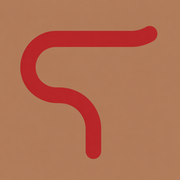
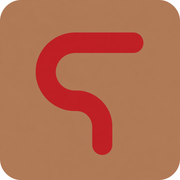
Planner: fix mobile overflow, literal \uXXXX escapes, and notes clamp
Three related bugs surfaced on iPhone.

1. Horizontal overflow at narrow viewports. <body> is display:flex
   flex-col (for footer-pin layout), which makes <main> a flex item
   with default min-width:auto (= min-content). The day-strip and
   filter-row inside main have overflow-x-auto with intrinsic widths
   well over 375px, so their min-content pushed main to 768px and
   every line of event text extended past the viewport edge. Fix:
   add w-full min-w-0 to main so it can shrink below its min-content
   width and the internal scrollers scroll internally.

2. \uXXXX unicode escapes rendering as literal text. JSX text
   children don't interpret \u escapes — only string literals and
   expression containers do. Six places in Planner.tsx were written
   as plain JSX text, so users saw "More \u25be" and " \u00b7 "
   instead of "More \u25BE" and " · ". Replaced with the real glyph.

3. Notes clamped to two lines (line-clamp-2). Combined with (1) this
   made descriptions look like they weren't wrapping at all. Removed
   the clamp and added break-words on the venue line, address link,
   notes, and title so long unbroken tokens can break.

Also updates the About page (new "Who made this" section, refreshed
"How to use it" for the new UI) and the favicon (new mark, both
512x512 and 180x180 variants).

diff --git a/src/components/Planner.tsx b/src/components/Planner.tsx
@@ -173,7 +173,7 @@ export default function Planner({ initialEvents }: Props) {
   }
 
   return (
-    <main className="max-w-3xl mx-auto px-5 pb-24">
+    <main className="max-w-3xl w-full min-w-0 mx-auto px-5 pb-24">
       {/* Header — minimal */}
       <header className="flex items-center justify-between gap-4 pt-7 pb-5">
         <Link href="/" className="text-2xl font-semibold tracking-tight text-stone-900">
@@ -277,7 +277,7 @@ export default function Planner({ initialEvents }: Props) {
             onClick={() => setFiltersOpen(true)}
             className="text-xs text-stone-500 hover:text-stone-900 px-2 py-1.5 whitespace-nowrap"
           >
-            More \u25be
+            More ▾
           </button>
         </div>
       </div>
@@ -376,7 +376,7 @@ export default function Planner({ initialEvents }: Props) {
           className="fixed bottom-5 right-5 z-30 bg-emerald-600 text-white rounded-full pl-4 pr-5 py-3 text-sm font-medium shadow-lg hover:bg-emerald-700 active:scale-95 transition flex items-center gap-2"
           aria-label="Download going events as .ics"
         >
-          <span className="text-base">\u2b07</span>
+          <span className="text-base">⬇</span>
           <span>{goingCount}</span>
           <span className="text-emerald-100 hidden sm:inline">to calendar</span>
         </button>
@@ -642,7 +642,7 @@ function PickButton({ pick, onSet }: { pick: Pick | null; onSet: (p: Pick | null
         aria-label="Pick options"
         className="absolute -bottom-0.5 -right-0.5 w-4 h-4 grid place-items-center rounded-full bg-white border border-stone-300 text-[8px] text-stone-500 leading-none"
       >
-        \u25be
+        ▾
       </button>
       {open && (
         <Sheet onClose={() => setOpen(false)} title="Mark as">
@@ -730,7 +730,7 @@ function EventCard({
           </div>
           {multiDay && dayIso === e.starts_on && (
             <div className="text-[9px] uppercase tracking-wider text-stone-400 mt-0.5">
-              \u2192 {formatDateShort(e.ends_on!)}
+              → {formatDateShort(e.ends_on!)}
             </div>
           )}
           <div
@@ -743,7 +743,7 @@ function EventCard({
         {/* Body */}
         <div className="flex-1 min-w-0">
           <div className="flex items-start justify-between gap-2">
-            <h3 className="font-medium text-stone-900 leading-snug text-[15px]">
+            <h3 className="flex-1 min-w-0 font-medium text-stone-900 leading-snug text-[15px] break-words">
               {mine ? (
                 <span>{e.title}</span>
               ) : (
@@ -764,16 +764,16 @@ function EventCard({
           </div>
 
           {(e.venue || e.address) && (
-            <p className="text-[13px] text-stone-600 mt-0.5">
+            <p className="text-[13px] text-stone-600 mt-0.5 break-words">
               {e.venue}
-              {e.venue && e.address && <span className="text-stone-400"> \u00b7 </span>}
+              {e.venue && e.address && <span className="text-stone-400"> · </span>}
               {map ? (
                 <a
                   href={map}
                   target="_blank"
                   rel="noopener noreferrer"
                   onClick={(ev) => ev.stopPropagation()}
-                  className="underline decoration-stone-300 underline-offset-2 hover:decoration-stone-700"
+                  className="underline decoration-stone-300 underline-offset-2 hover:decoration-stone-700 break-words"
                 >
                   {e.address}
                 </a>
@@ -784,7 +784,7 @@ function EventCard({
           )}
 
           {e.notes && (
-            <p className="text-[13px] text-stone-500 mt-1 line-clamp-2 leading-relaxed">
+            <p className="text-[13px] text-stone-500 mt-1 leading-relaxed break-words">
               {e.notes}
             </p>
           )}
@@ -800,7 +800,7 @@ function EventCard({
                 title="Directions"
                 className="w-9 h-9 grid place-items-center rounded-full hover:bg-stone-200/60 active:bg-stone-200 text-base"
               >
-                \u2197
+                ↗
               </a>
             )}
             <button

diff --git a/src/app/about/page.tsx b/src/app/about/page.tsx
@@ -28,21 +28,30 @@ export default function AboutPage() {
           <h2 className="text-lg font-semibold tracking-tight text-stone-900 pt-4">How to use it</h2>
           <ul className="list-disc pl-5 space-y-1">
             <li>
-              Tap <strong>going</strong>, <strong>maybe</strong> or <strong>skip</strong> on any event. Picks live only in your browser — no
-              account, no login, no server-side tracking.
+              Tap the <strong>☆</strong> on any event to mark it <strong>going</strong>; long-press
+              or tap the small menu for <strong>maybe</strong> or <strong>skip</strong>. Picks live
+              only in your browser — no account, no login, no server-side tracking.
             </li>
             <li>
-              Use the search box or the day chips to narrow the list. The <strong>Multiday</strong> filter
-              shows events that run across more than one day (Alcova, Salone itself, district programmes).
+              Use the search box or the day chips to narrow the list. The <strong>Now</strong> and{' '}
+              <strong>Today</strong> filters show what&rsquo;s open right now or still open later
+              today; <strong>Multi-day</strong> surfaces events that run across several days.
             </li>
             <li>
               On the <Link href="/map" className="underline decoration-stone-300 underline-offset-2">Map</Link>, tap
               <em> Locate me</em> to drop a pin where you are, or filter by day to see only one day&rsquo;s pins at a time.
             </li>
             <li>
-              Hit <em>+ Add to calendar</em> on any event card to download a .ics file, or the{' '}
-              <em>⬇ My picks</em> button in the header to export everything you&rsquo;ve marked <em>going</em> at once.
-              Import into Apple Calendar or Google Calendar to get reminders on your phone.
+              Hit <em>+ Add to calendar</em> on any event card to download a single .ics file, or
+              the floating <em>⬇ to calendar</em> button to export everything you&rsquo;ve marked{' '}
+              <em>going</em> at once. Import into Apple Calendar or Google Calendar to get reminders
+              on your phone.
+            </li>
+            <li>
+              Open <strong>Settings</strong> from the <strong>⋯</strong> menu to set a{' '}
+              <strong>home base</strong> (unlocks a &ldquo;from ⌂&rdquo; directions link on every event
+              and a pin on the map), <strong>add your own events</strong> alongside the public list, or
+              export / import your data as JSON. Everything under Settings stays in your browser.
             </li>
           </ul>
 
@@ -65,10 +74,19 @@ export default function AboutPage() {
             <li>Pins are geocoded from OpenStreetMap data, which occasionally lands a block off. Trust the venue name over the pin.</li>
           </ul>
 
+          <h2 className="text-lg font-semibold tracking-tight text-stone-900 pt-4">Who made this</h2>
+          <p>
+            Built by <strong>Don Seibert</strong> — by day an insurtech builder, by evening
+            occasionally a maker of small tools. This one started as a weekend project for his wife
+            Esma, who was heading to Milan for Design Week 2026 and wanted a calmer way to keep
+            track of everything that was on. It worked well enough that it seemed worth opening up.
+            No account, no tracking, no monetisation — just the planner.
+          </p>
+
           <h2 className="text-lg font-semibold tracking-tight text-stone-900 pt-4">Colophon</h2>
           <p>
             Built on Next.js + Supabase, maps by Leaflet and OpenStreetMap. Favicon is a stylised
-            Franco Albini & Franca Helg Metro handrail — Milan&rsquo;s other enduring design classic.
+            Franco Albini &amp; Franca Helg Metro handrail — Milan&rsquo;s other enduring design classic.
             Not affiliated with Salone del Mobile, Fuorisalone or any of the cited sources.
           </p>
         </section>
